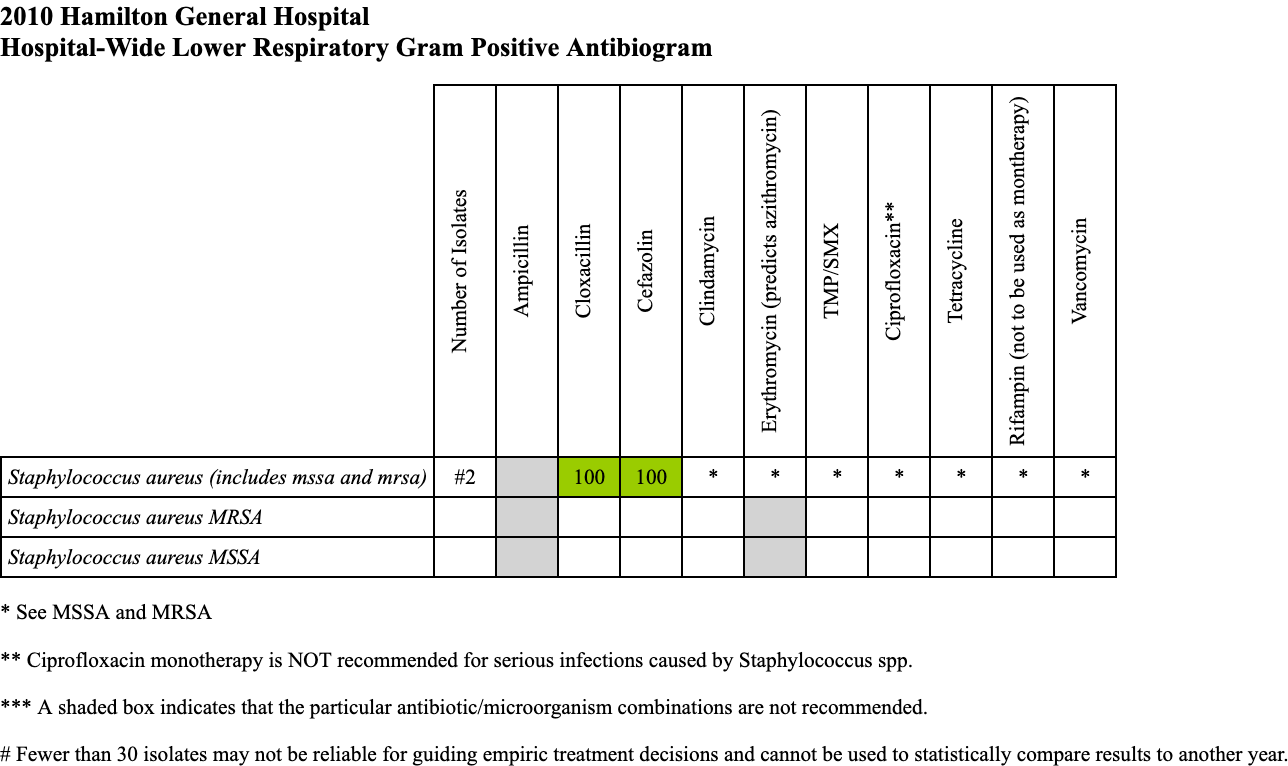
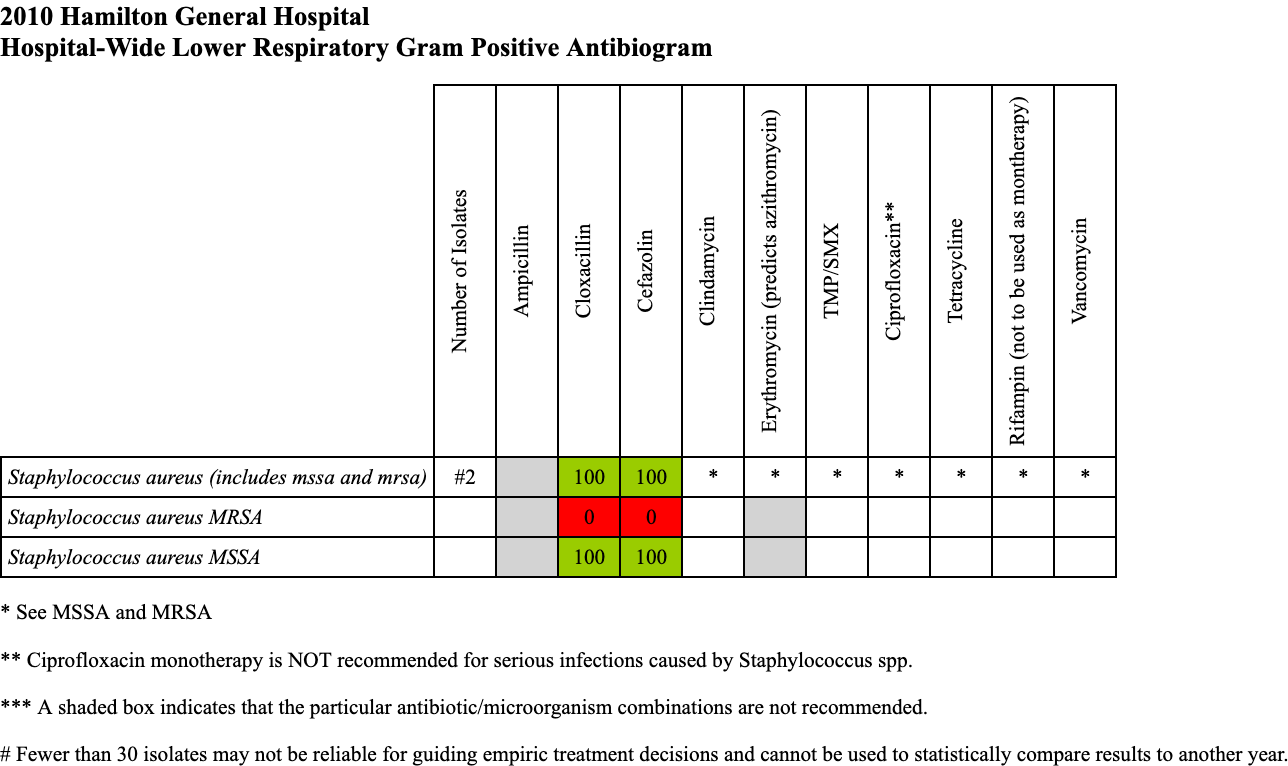
added final antibiogram updates

Changed region(s): [[0.4348, 0.6305, 0.528, 0.7507]]

diff --git a/poc.py b/poc.py
@@ -89,77 +89,70 @@ def get_concat_v_cut(im1, im2, im3):
 
 def mask_combined(df, title_type):
     #this function masks the cell based on the row and column labels
-    df = mask(df, "Staphylococcus aureus (includes mssa and mrsa)", "Ampicillin")
-    df = mask(df, "Staphylococcus aureus (includes mssa and mrsa)", "High-Level gentamicin")
-    df = mask(df, "Coagulase negative staphylococcus", "Ampicillin")
-    df = mask(df, "Coagulase negative staphylococcus", "High-Level gentamicin")
-    df = mask(df, "E. coli", "Ceftazidime")
-    df = mask(df, "Klebsiella pneumoniae", "Ceftazidime")
-    df = mask(df, "Proteus mirabilis", "Ceftazidime")
-    df = mask(df, "Pseudomonas aeruginosa", "Ampicillin")
-    df = mask(df, "Pseudomonas aeruginosa", "Ceftriaxone")
-    df = mask(df, "Pseudomonas aeruginosa", "Ertapenem")
-    df = mask(df, "Pseudomonas aeruginosa", "Cefazolin")
-    df = mask(df, "Pseudomonas aeruginosa", "Cefazolin (Urinary)")
-    df = mask(df, "Pseudomonas aeruginosa", "TMP/SMX")
+    df = mask(df, "Staphylococcus aureus MRSA", "Cefazolin", 0)
+    df = mask(df, "Staphylococcus aureus MRSA", "Cloxacillin", 0)
+    df = mask(df, "Staphylococcus aureus MSSA", "Cefazolin", 100)
+    df = mask(df, "Staphylococcus aureus MSSA", "Cloxacillin", 100)
+    #mask for N/R
+    df = mask(df, "Staphylococcus aureus (includes mssa and mrsa)", "Ampicillin", "N/R")
+    df = mask(df, "Staphylococcus aureus (includes mssa and mrsa)", "High-Level gentamicin", "N/R")
+    df = mask(df, "Coagulase negative staphylococcus", "Ampicillin", "N/R")
+    df = mask(df, "Coagulase negative staphylococcus", "High-Level gentamicin", "N/R")
+    df = mask(df, "E. coli", "Ceftazidime", "N/R")
+    df = mask(df, "Klebsiella pneumoniae", "Ceftazidime", "N/R")
+    df = mask(df, "Proteus mirabilis", "Ceftazidime", "N/R")
+    df = mask(df, "Pseudomonas aeruginosa", "Ampicillin", "N/R")
+    df = mask(df, "Pseudomonas aeruginosa", "Ceftriaxone", "N/R")
+    df = mask(df, "Pseudomonas aeruginosa", "Ertapenem", "N/R")
+    df = mask(df, "Pseudomonas aeruginosa", "Cefazolin", "N/R")
+    df = mask(df, "Pseudomonas aeruginosa", "Cefazolin (Urinary)", "N/R")
+    df = mask(df, "Pseudomonas aeruginosa", "TMP/SMX", "N/R")
     if title_type in [' All Specimen Types Excluding Surveillance ', " Lower Respiratory "]:
-        df = mask_dot(df, "Staphylococcus aureus (includes mssa and mrsa)", "Clindamycin")
-        df = mask_dot(df, "Staphylococcus aureus (includes mssa and mrsa)", "Erythromycin (predicts azithromycin)")
-        df = mask_dot(df, "Staphylococcus aureus (includes mssa and mrsa)", "TMP/SMX")
-        df = mask_dot(df, "Staphylococcus aureus (includes mssa and mrsa)", "Tetracycline")
-        df = mask_dot(df, "Staphylococcus aureus (includes mssa and mrsa)", "Rifampin (not to be used as montherapy)")
-        df = mask_dot(df, "Staphylococcus aureus (includes mssa and mrsa)", "Vancomycin")
-        df = mask_dot(df, "Staphylococcus aureus (includes mssa and mrsa)", "Ciprofloxacin")
-    df = mask(df, "Pseudomonas aeruginosa", "Nitrofurantoin (Urine)")
-    df = mask(df, "Staphylococcus aureus MRSA", "Ampicillin")
-    df = mask(df, "Staphylococcus aureus MSSA", "Ampicillin")
-    df = mask(df, "Staphylococcus aureus MRSA", "Erythromycin (predicts azithromycin)")
-    df = mask(df, "Staphylococcus aureus MSSA", "Erythromycin (predicts azithromycin)")
-    df = mask(df, "Enterococcus spp", "Cefazolin")
-    df = mask(df, "Enterococcus faecalis", "Cefazolin")
-    df = mask(df, "Enterococcus faecium", "Cefazolin")
-    df = mask(df, "Enterococcus spp", "Cloxacillin")
-    df = mask(df, "Enterococcus faecalis", "Cloxacillin")
-    df = mask(df, "Enterococcus faecium", "Cloxacillin")
-    df = mask(df, "Enterococcus spp", "Clindamycin")
-    df = mask(df, "Enterococcus spp", "TMP/SMX")
+        df = mask(df, "Staphylococcus aureus (includes mssa and mrsa)", "Clindamycin", "*")
+        df = mask(df, "Staphylococcus aureus (includes mssa and mrsa)", "Erythromycin (predicts azithromycin)", "*")
+        df = mask(df, "Staphylococcus aureus (includes mssa and mrsa)", "TMP/SMX", "*")
+        df = mask(df, "Staphylococcus aureus (includes mssa and mrsa)", "Tetracycline", "*")
+        df = mask(df, "Staphylococcus aureus (includes mssa and mrsa)", "Rifampin (not to be used as montherapy)", "*")
+        df = mask(df, "Staphylococcus aureus (includes mssa and mrsa)", "Vancomycin", "*")
+        df = mask(df, "Staphylococcus aureus (includes mssa and mrsa)", "Ciprofloxacin", "*")
+    df = mask(df, "Pseudomonas aeruginosa", "Nitrofurantoin (Urine)", "N/R")
+    df = mask(df, "Staphylococcus aureus MRSA", "Ampicillin", "N/R")
+    df = mask(df, "Staphylococcus aureus MSSA", "Ampicillin", "N/R")
+    df = mask(df, "Staphylococcus aureus MRSA", "Erythromycin (predicts azithromycin)", "N/R")
+    df = mask(df, "Staphylococcus aureus MSSA", "Erythromycin (predicts azithromycin)", "N/R")
+    df = mask(df, "Enterococcus spp", "Cefazolin", "N/R")
+    df = mask(df, "Enterococcus faecalis", "Cefazolin", "N/R")
+    df = mask(df, "Enterococcus faecium", "Cefazolin", "N/R")
+    df = mask(df, "Enterococcus spp", "Cloxacillin", "N/R")
+    df = mask(df, "Enterococcus faecalis", "Cloxacillin", "N/R")
+    df = mask(df, "Enterococcus faecium", "Cloxacillin", "N/R")
+    df = mask(df, "Enterococcus spp", "Clindamycin", "N/R")
+    df = mask(df, "Enterococcus spp", "TMP/SMX", "N/R")
     if title_type != " Urine ":
-        df = mask(df, "Enterococcus spp", "Ciprofloxacin")
-        df = mask(df, "Enterococcus spp", "Tetracycline")
+        df = mask(df, "Enterococcus spp", "Ciprofloxacin", "N/R")
+        df = mask(df, "Enterococcus spp", "Tetracycline", "N/R")
     else:
-        df = mask(df, "Enterobacter spp.", "Fosfomycin (Oral)")
-        df = mask(df, "Klebsiella pneumoniae", "Fosfomycin (Oral)")
-        df = mask(df, "Proteus mirabilis", "Fosfomycin (Oral)")
-        df = mask(df, "Pseudomonas aeruginosa", "Fosfomycin (Oral)")
-    df = mask(df, "Enterococcus spp", "Erythromycin (predicts azithromycin)")
+        df = mask(df, "Enterobacter spp.", "Fosfomycin (Oral)", "N/R")
+        df = mask(df, "Klebsiella pneumoniae", "Fosfomycin (Oral)", "N/R")
+        df = mask(df, "Proteus mirabilis", "Fosfomycin (Oral)", "N/R")
+        df = mask(df, "Pseudomonas aeruginosa", "Fosfomycin (Oral)", "N/R")
+    df = mask(df, "Enterococcus spp", "Erythromycin (predicts azithromycin)", "N/R")
     #check this too
-    df = mask(df, "Enterococcus spp", "Rifampin (not to be used as montherapy)")
-    df = mask(df, "Enterobacter spp.", "Ampicillin")
-    df = mask(df, "Enterobacter spp.", "Cefazolin")
-    df = mask(df, "Enterobacter spp.", "Ceftriaxone")
-    df = mask(df, "Enterobacter spp.", "Ceftazidime")
-    df = mask(df, "Enterobacter spp.", "Piperacillin-Tazobactam")
-    df = mask(df, "Klebsiella pneumoniae", "Ampicillin")
+    df = mask(df, "Enterococcus spp", "Rifampin (not to be used as montherapy)", "N/R")
+    df = mask(df, "Enterobacter spp.", "Ampicillin", "N/R")
+    df = mask(df, "Enterobacter spp.", "Cefazolin", "N/R")
+    df = mask(df, "Enterobacter spp.", "Ceftriaxone", "N/R")
+    df = mask(df, "Enterobacter spp.", "Ceftazidime", "N/R")
+    df = mask(df, "Enterobacter spp.", "Piperacillin-Tazobactam", "N/R")
+    df = mask(df, "Klebsiella pneumoniae", "Ampicillin", "N/R")
     return df
 
-def mask_dot(data, row_label, column_label):
+def mask(data, row_label, column_label, value):
     data = data.reset_index()
     data = data.set_index("Name")
     if row_label and column_label in data:
         if row_label in data.index:
-            data.loc[row_label, column_label] = "*"
-            return data
-        else:
-            return data
-    else:
-        return data
-
-def mask(data, row_label, column_label):
-    data = data.reset_index()
-    data = data.set_index("Name")
-    if row_label and column_label in data:
-        if row_label in data.index:
-            data.loc[row_label, column_label] = "N/R"
+            data.loc[row_label, column_label] = value
             return data
         else:
             return data
@@ -178,6 +171,7 @@ def flag_column(df, title_type, gp_or_gn):
         if "Gram Negative" in gp_or_gn:
             df = df.rename(columns={"Cefazolin": "Cefazolin (Urinary)***"})
             df = df.rename(columns={"Ciprofloxacin": "Ciprofloxacin**"})
+            df = df.rename(columns={"Tetracycline": "Tetracycline**"})
         if "Gram Positive" in gp_or_gn:
             df = df.rename(columns={"Fosfomycin (Oral)": "Fosfomycin (Oral)**"})
             df = df.rename(columns={"Ciprofloxacin": "Ciprofloxacin***"})
